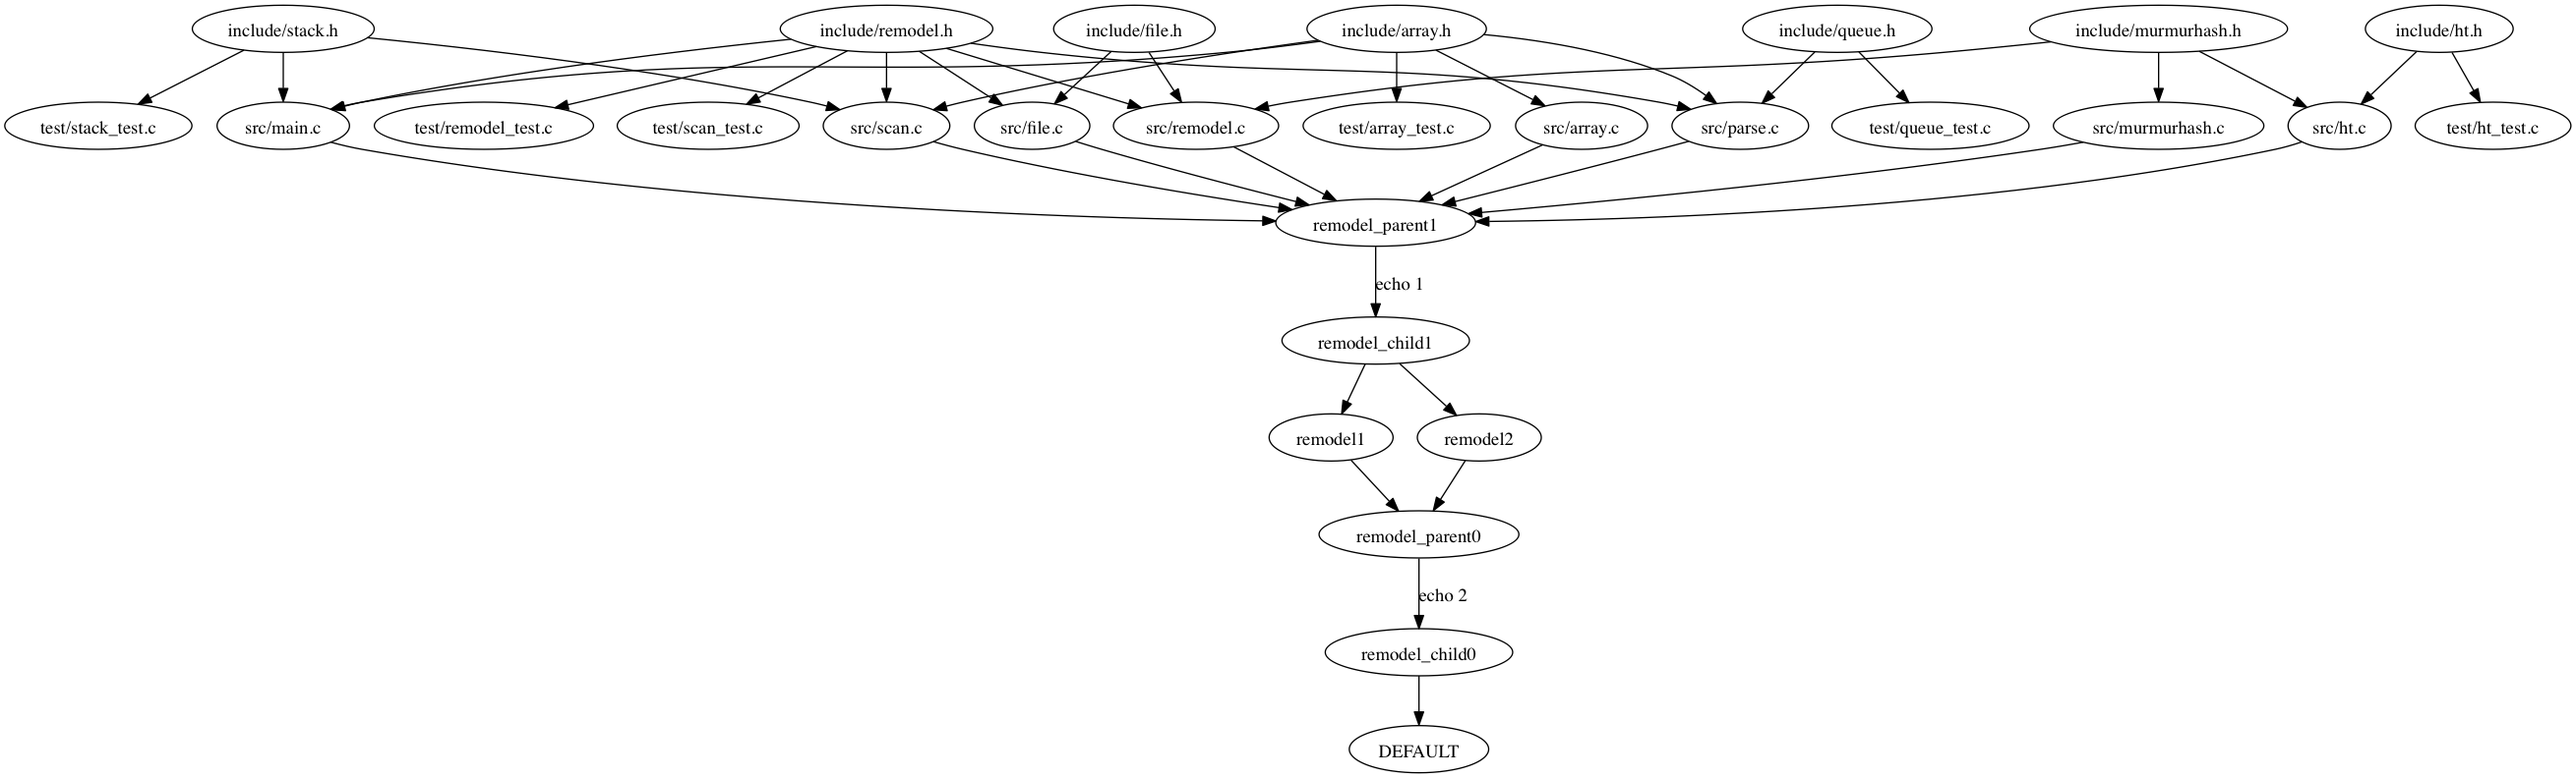
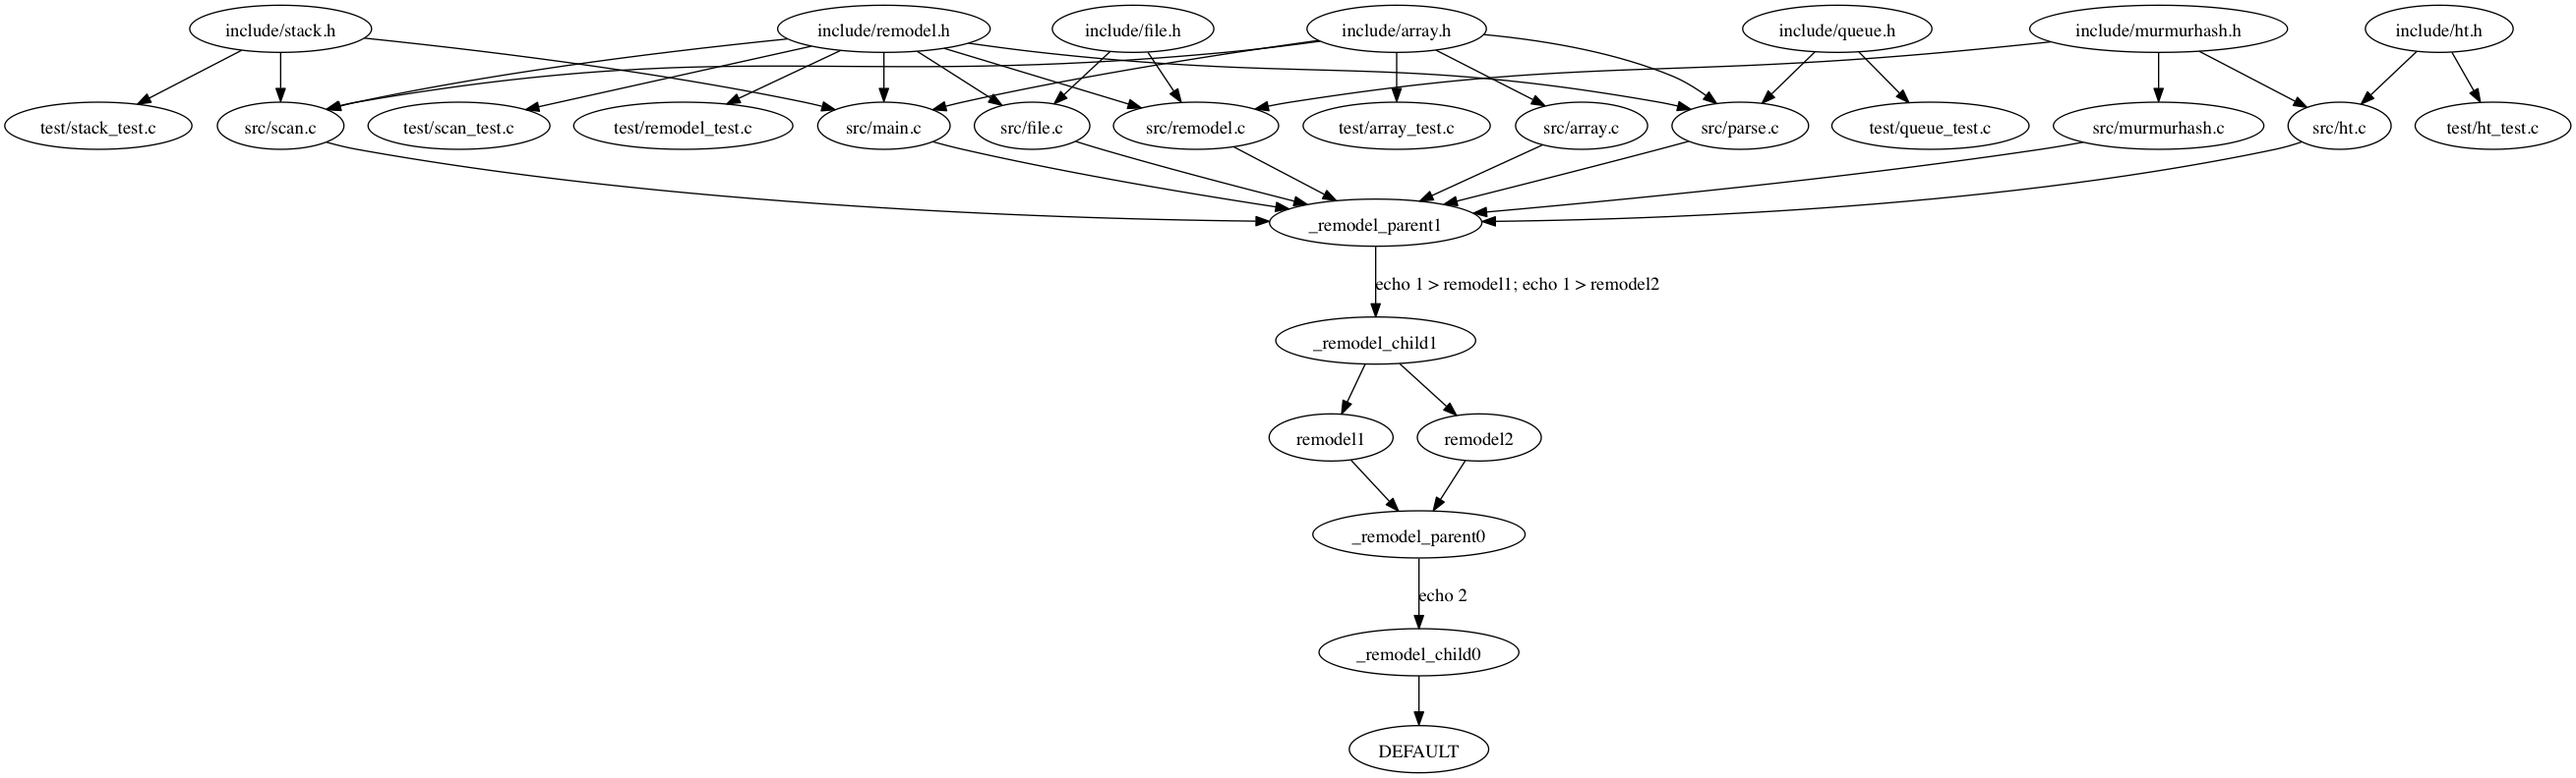
fix change propagation and only mark internally generated nodes as changed if their parents were changed

diff --git a/src/remodel.c b/src/remodel.c
@@ -11,6 +11,11 @@
 #include "src/scan.c"
 #include "include/murmurhash.h"
 
+remodel_options_t options = {
+  .debug = false,
+  .generate_graph = false
+};
+
 remodel_graph_t* remodel_graph_new() {
   remodel_graph_t* graph = calloc(1, sizeof(remodel_graph_t));
   graph->nodes = ht_new(4);
@@ -73,6 +78,9 @@ static void remodel_graph_add_edge(remodel_node_t* from, remodel_node_t* to, con
   }
 }
 
+static const char* remodel_parent = "_remodel_parent";
+static const char* remodel_child = "_remodel_child";
+
 void remodel_graph_add_edges(remodel_graph_t* graph, parser_edges_t* edges) {
   // if we have a command that maps from m parents to n children, the intent is not
   // to execute the command m*n times, but execute it once when all parents have been executed
@@ -81,15 +89,15 @@ void remodel_graph_add_edges(remodel_graph_t* graph, parser_edges_t* edges) {
   // we will execute the command at most once.
   if (edges->cmd && (edges->children->len > 1 || edges->parents->len > 1)) {
     static uint32_t parent_node_id = 0;
-    uint32_t parent_node_name_len = strlen("remodel_parent") + 10 + 1;
+    uint32_t parent_node_name_len = strlen(remodel_parent) + 10 + 1;
     char* parent_node_name = malloc(parent_node_name_len);
-    snprintf(parent_node_name, parent_node_name_len, "remodel_parent%d", parent_node_id);
+    snprintf(parent_node_name, parent_node_name_len, "%s%d", remodel_parent, parent_node_id);
     parent_node_id++;
 
     static uint32_t child_node_id = 0;
-    uint32_t child_node_name_len = strlen("remodel_child") + 10 + 1;
+    uint32_t child_node_name_len = strlen(remodel_child) + 10 + 1;
     char* child_node_name = malloc(child_node_name_len);
-    snprintf(child_node_name, parent_node_name_len, "remodel_child%d", child_node_id);
+    snprintf(child_node_name, parent_node_name_len, "%s%d", remodel_child, child_node_id);
     child_node_id++;
 
     array_t* parent_node = array_new();
@@ -174,13 +182,25 @@ array_t* remodel_roots(remodel_graph_t* graph) {
   return roots;
 }
 
+static bool is_internal_name(const char* name) {
+  return strncmp(name, remodel_parent, strlen(remodel_parent)) == 0 ||
+    strncmp(name, remodel_child, strlen(remodel_child)) == 0;
+}
+
 static void edge_execute(remodel_edge_t* edge) {
   if (options.debug) {
     fprintf(stderr, "[remodel] executing %s -> %s\n", edge->from->name, edge->to->name);
   }
 
-  // if the parent of this edge been modified, we want to regenerate the child
-  if (file_changed(edge->from->name)) {
+  // if the parent of this edge been modified, we want to regenerate the child.
+  // we only want to check nodes that we haven't inserted, but if the parents
+  // of one of our parent nodes have been modified, we should update the child.
+  edge->to->modified |= edge->from->modified;
+  if (is_internal_name(edge->from->name) && options.debug) {
+    fprintf(stderr, "[remodel] %s(%d) -> %s(%d)\n",
+            edge->from->name, edge->from->modified,
+            edge->to->name, edge->to->modified);
+  } else if (file_changed(edge->from->name)) {
     if (options.debug) {
       fprintf(stderr, "[remodel] %s modified on disk\n", edge->from->name);
       fprintf(stderr, "[remodel] %s has modified parent (%s)\n",
@@ -192,7 +212,7 @@ static void edge_execute(remodel_edge_t* edge) {
   }
 
   // if the child of this edge has been modified, we want to regenerate it.
-  if (file_changed(edge->to->name)) {
+  if (!is_internal_name(edge->to->name) && file_changed(edge->to->name)) {
     if (options.debug) {
       fprintf(stderr, "[remodel] %s modified on disk\n", edge->to->name);
     }

diff --git a/src/file.c b/src/file.c
@@ -25,6 +25,8 @@
 #include "include/file.h"
 #include "include/remodel.h"
 
+extern remodel_options_t options;
+
 char* read_file(FILE* file) {
   struct stat stat;
   if (fstat(fileno(file), &stat) < 0) {
@@ -140,8 +142,8 @@ bool file_changed(const char* path) {
   // tmp file with the current thread's identifier and rename it to the original file name.
   uint32_t tmp_cache_path_len = cache_path_len + 1 + 3 + 1 + 10;
   tmp_cache_path = malloc(tmp_cache_path_len + 1);
-  pthread_t tid = pthread_self();
-  snprintf(tmp_cache_path, tmp_cache_path_len, "%s.tmp.%p", cache_path, &tid);
+  void* tid = pthread_self();
+  snprintf(tmp_cache_path, tmp_cache_path_len, "%s.tmp.%p", cache_path, tid);
   FILE* tmp_cache_file = fopen(tmp_cache_path, "w");
   if (!tmp_cache_file) {
     goto exit;

diff --git a/src/main.c b/src/main.c
@@ -9,6 +9,8 @@
 #include "include/stack.h"
 #include "include/array.h"
 
+extern remodel_options_t options;
+
 static inline uint32_t min(uint32_t x, uint32_t y) {
   if (x < y) {
     return x;
@@ -17,7 +19,7 @@ static inline uint32_t min(uint32_t x, uint32_t y) {
   }
 }
 
-#define DEFAULT_NUM_THREADS 8
+#define DEFAULT_NUM_THREADS 1
 
 static const char* version = "0.0.1";
 static const char* usage = "Usage %s [-hv] [/path/to/remodel/file]\n";

diff --git a/include/remodel.h b/include/remodel.h
@@ -51,11 +51,6 @@ typedef struct {
   bool generate_graph;
 } remodel_options_t;
 
-static remodel_options_t options = {
-  .debug = false,
-  .generate_graph = false
-};
-
 extern parser_edges_t* edges;
 
 remodel_graph_t* remodel_load_file(char* path);
